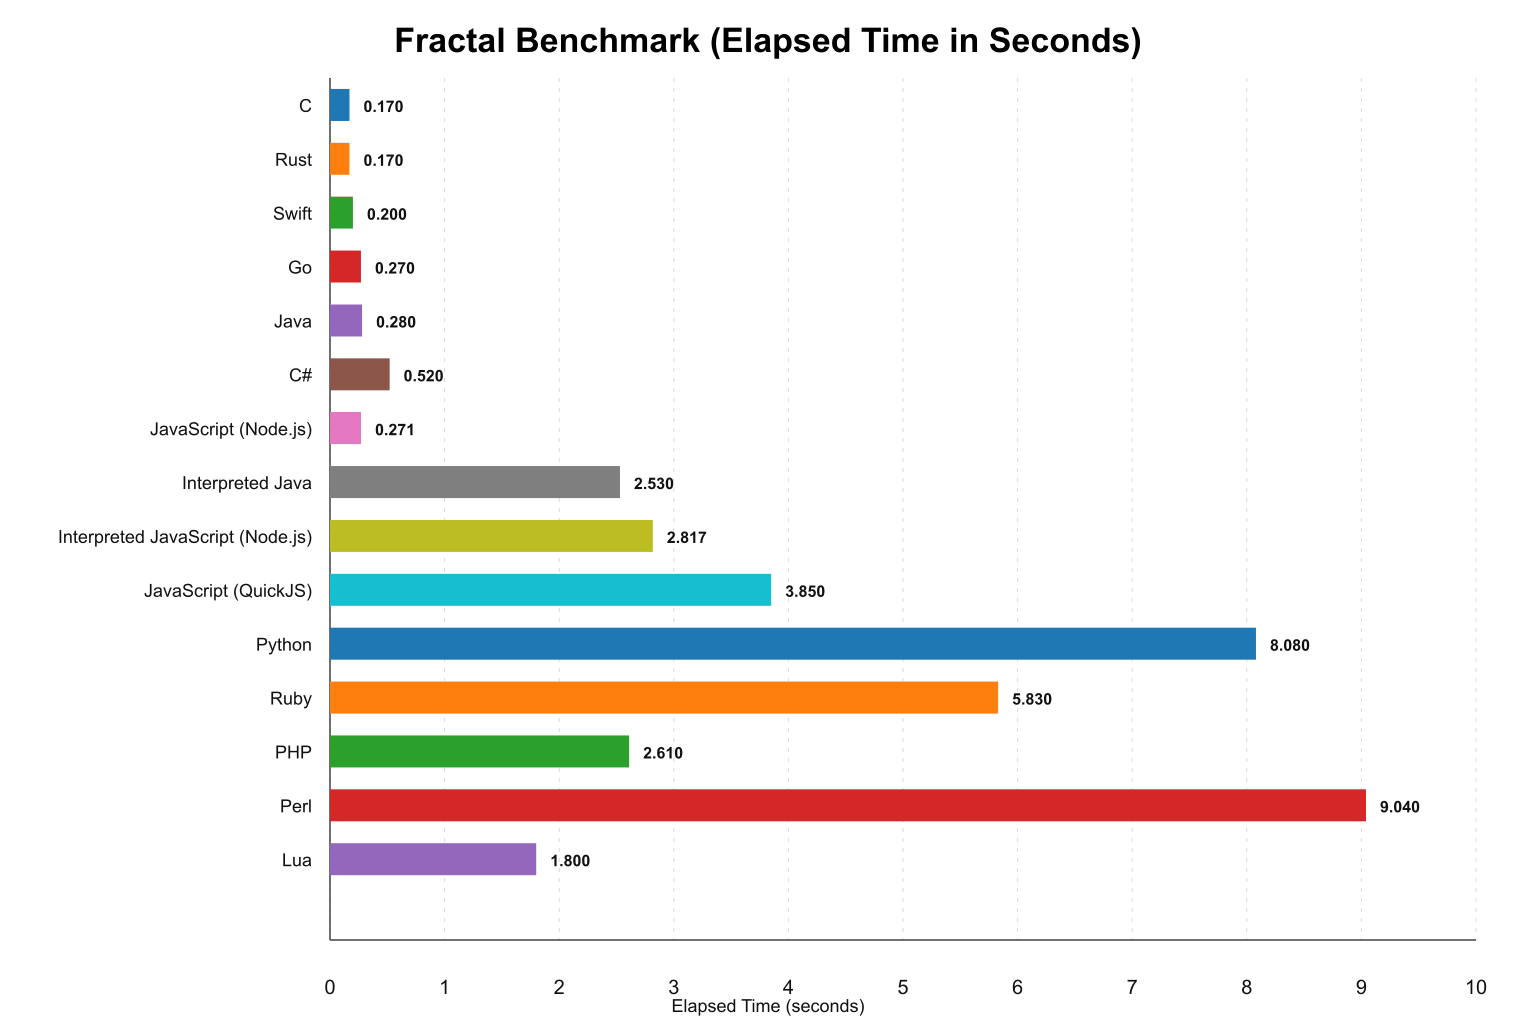
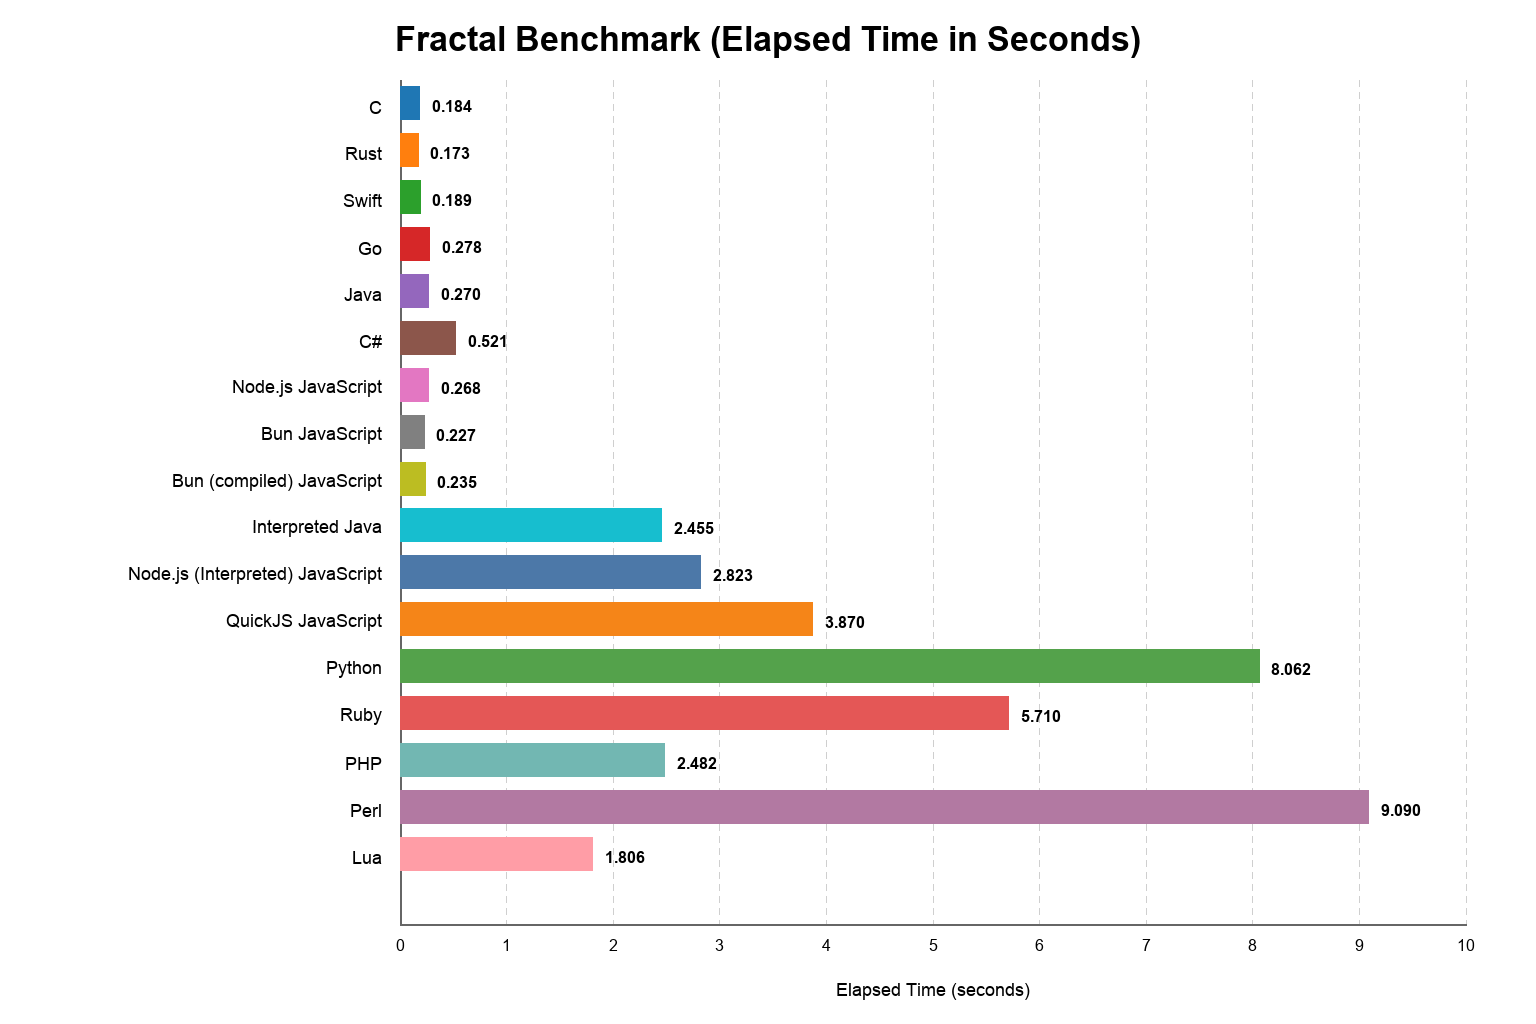
Update results

Changed region(s): [[0.0312, 0.0312, 0.9375, 0.875], [0.4375, 0.9688, 0.5625, 1.0], [0.5625, 0.9375, 0.6562, 0.9688]]

diff --git a/Fractal Benchmark/mandelbrot.quickjs.js b/Fractal Benchmark/mandelbrot.quickjs.js
@@ -46,7 +46,7 @@ var start = Date.now();
 mandelbrot(runs);
 var elapsed = (Date.now() - start) / 1000;
 var elapsedLine =
-	"JavaScript (QuickJS) Elapsed " + elapsed.toFixed(3) + " seconds";
+	"QuickJS JavaScript Elapsed " + elapsed.toFixed(3) + " seconds";
 
 if (typeof std !== "undefined" && std.err && std.err.puts) {
 	std.err.puts(elapsedLine + "\n");

diff --git a/String Benchmark/string-benchmark.quickjs.js b/String Benchmark/string-benchmark.quickjs.js
@@ -211,7 +211,7 @@ var start = Date.now();
 runBenchmark(data.text, data.hashHi, data.hashLo, runs);
 var elapsed = (Date.now() - start) / 1000;
 std.err.puts(
-	"JavaScript (QuickJS) Elapsed "
+	"QuickJS JavaScript Elapsed "
 	+ elapsed.toFixed(3)
 	+ " seconds\n"
 );

diff --git a/String Benchmark/README.md b/String Benchmark/README.md
@@ -29,24 +29,26 @@ Use `./run.sh` for benchmark-only timings reported by each implementation. Use `
 
 | Language | Time (s) | Total Time (s) | Start Time (s) | Max RSS (MiB) |
 | --- | ---: | ---: | ---: | ---: |
-| C | 0.250 | 0.25 | 0.000 | 5.094 |
-| C UTF-16 | 0.290 | 0.29 | 0.000 | 14.109 |
-| Rust | 0.300 | 0.30 | 0.000 | 10.234 |
-| Rust UTF-16 | 0.280 | 0.28 | 0.000 | 15.156 |
-| Swift | 1.900 | 1.90 | 0.000 | 46.578 |
-| Objective-C | 2.160 | 2.16 | 0.000 | 29.469 |
-| Go | 0.340 | 0.34 | 0.000 | 14.328 |
-| Java | 0.300 | 0.30 | 0.000 | 414.422 |
-| C# | 0.430 | 0.43 | 0.000 | 50.484 |
-| JavaScript (Node.js) | 4.060 | 4.06 | 0.000 | 220.359 |
-| Interpreted Java | 14.260 | 14.26 | 0.000 | 398.875 |
-| Interpreted JavaScript (Node.js) | 17.350 | 17.35 | 0.000 | 287.359 |
-| JavaScript (QuickJS) | 18.740 | 18.74 | 0.000 | 65.891 |
-| Python | 5.410 | 5.41 | 0.000 | 66.906 |
-| Ruby | 7.080 | 7.08 | 0.000 | 79.328 |
-| PHP | 6.870 | 6.87 | 0.000 | 34.062 |
-| Perl | 21.080 | 21.08 | 0.000 | 39.688 |
-| Lua | 7.050 | 7.05 | 0.000 | 96.953 |
+| C | 0.116 | 0.25 | 0.000 | 13.906 |
+| C UTF-16 | 0.125 | 0.28 | 0.000 | 27.922 |
+| Rust | 0.155 | 0.32 | 0.000 | 22.297 |
+| Rust UTF-16 | 0.120 | 0.29 | 0.000 | 9.172 |
+| Swift | 2.376 | 2.55 | 0.000 | 35.406 |
+| Objective-C | 1.989 | 2.17 | 0.000 | 33.391 |
+| Go | 0.172 | 0.35 | 0.000 | 14.641 |
+| Java | 0.264 | 0.31 | 0.000 | 413.328 |
+| C# | 0.412 | 0.42 | 0.000 | 50.484 |
+| Node.js JavaScript | 3.956 | 4.05 | 0.000 | 212.188 |
+| Bun JavaScript | 4.294 | 4.40 | 0.000 | 178.625 |
+| Bun (compiled) JavaScript | 4.302 | 4.95 | 0.000 | 166.922 |
+| Interpreted Java | 14.104 | 14.32 | 0.000 | 397.719 |
+| Node.js (Interpreted) JavaScript | 17.149 | 17.33 | 0.000 | 268.797 |
+| QuickJS JavaScript | 18.345 | 18.80 | 0.000 | 67.031 |
+| Python | 5.336 | 5.55 | 0.000 | 56.344 |
+| Ruby | 7.124 | 7.27 | 0.000 | 81.938 |
+| PHP | 6.762 | 6.90 | 0.000 | 34.172 |
+| Perl | 20.548 | 21.11 | 0.000 | 40.484 |
+| Lua | 7.017 | 7.14 | 0.000 | 91.016 |
 
 ![Benchmark results time](assets/results-time.png)
 

diff --git a/Fractal Benchmark/README.md b/Fractal Benchmark/README.md
@@ -24,21 +24,23 @@ Use `./run.sh` for benchmark-only timings reported by each implementation. Use `
 
 | Language | Time (s) | Total Time (s) | Start Time (s) | Max RSS (MiB) |
 | --- | ---: | ---: | ---: | ---: |
-| C | 0.540 | 0.54 | 0.000 | 2.125 |
-| Rust | 0.330 | 0.33 | 0.000 | 2.125 |
-| Swift | 0.350 | 0.35 | 0.000 | 3.203 |
-| Go | 0.460 | 0.46 | 0.000 | 3.953 |
-| Java | 0.340 | 0.34 | 0.000 | 63.578 |
-| C# | 0.530 | 0.53 | 0.000 | 17.859 |
-| JavaScript (Node.js) | 0.300 | 0.30 | 0.000 | 52.250 |
-| Interpreted Java | 2.500 | 2.50 | 0.000 | 38.859 |
-| Interpreted JavaScript (Node.js) | 2.840 | 2.84 | 0.000 | 46.562 |
-| JavaScript (QuickJS) | 3.850 | 3.85 | 0.000 | 2.469 |
-| Python | 8.110 | 8.11 | 0.000 | 8.938 |
-| Ruby | 5.790 | 5.79 | 0.000 | 25.281 |
-| PHP | 2.500 | 2.50 | 0.000 | 8.438 |
-| Perl | 9.100 | 9.10 | 0.000 | 4.469 |
-| Lua | 1.790 | 1.79 | 0.000 | 1.969 |
+| C | 0.184 | 0.30 | 0.000 | 1.953 |
+| Rust | 0.173 | 0.33 | 0.000 | 1.953 |
+| Swift | 0.189 | 0.34 | 0.000 | 3.000 |
+| Go | 0.278 | 0.43 | 0.000 | 3.953 |
+| Java | 0.270 | 0.33 | 0.000 | 60.469 |
+| C# | 0.521 | 0.52 | 0.000 | 17.016 |
+| Node.js JavaScript | 0.268 | 0.29 | 0.000 | 52.359 |
+| Bun JavaScript | 0.227 | 0.23 | 0.000 | 32.125 |
+| Bun (compiled) JavaScript | 0.235 | 0.80 | 0.000 | 29.828 |
+| Interpreted Java | 2.455 | 2.49 | 0.000 | 40.641 |
+| Node.js (Interpreted) JavaScript | 2.823 | 2.86 | 0.000 | 46.734 |
+| QuickJS JavaScript | 3.870 | 3.85 | 0.000 | 2.469 |
+| Python | 8.062 | 8.09 | 0.000 | 8.531 |
+| Ruby | 5.710 | 5.77 | 0.000 | 25.125 |
+| PHP | 2.482 | 2.50 | 0.000 | 8.625 |
+| Perl | 9.090 | 9.01 | 0.000 | 4.516 |
+| Lua | 1.806 | 1.80 | 0.000 | 2.109 |
 
 ![Benchmark results time](assets/results-time.png)
 

diff --git a/README.md b/README.md
@@ -23,11 +23,11 @@ Compare performance of multiple popular languages across different tasks.
   with `java -Xint`, disabling JIT compilation.
 - **C#:** C# implementation compiled with `mcs` and run on Mono with
   optimizations enabled.
-- **JavaScript (Node.js):** Standard Node.js execution with the normal
+- **Node.js JavaScript:** Standard Node.js execution with the normal
   V8 JIT pipeline enabled.
-- **JavaScript (Node.js, interpreted):** Node.js run with `--jitless`,
+- **Node.js (Interpreted) JavaScript:** Node.js run with `--jitless`,
   disabling the V8 JIT so execution stays in non-JIT mode.
-- **JavaScript (QuickJS):** JavaScript executed with QuickJS instead of
+- **QuickJS JavaScript:** JavaScript executed with QuickJS instead of
   Node.js and V8.
 - **Python:** CPython execution using `python` or `python3`, depending
   on what is available.
